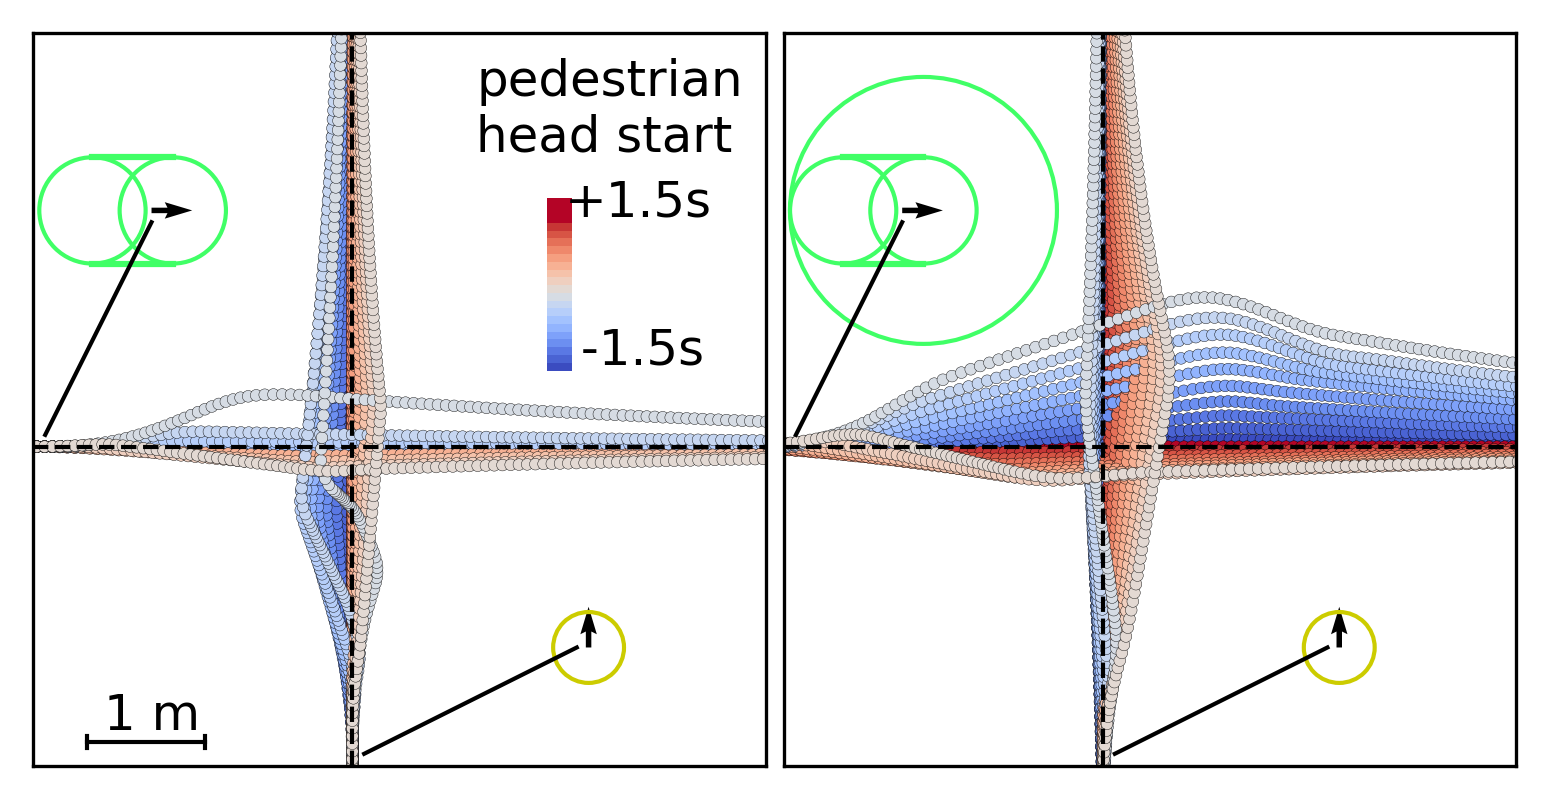
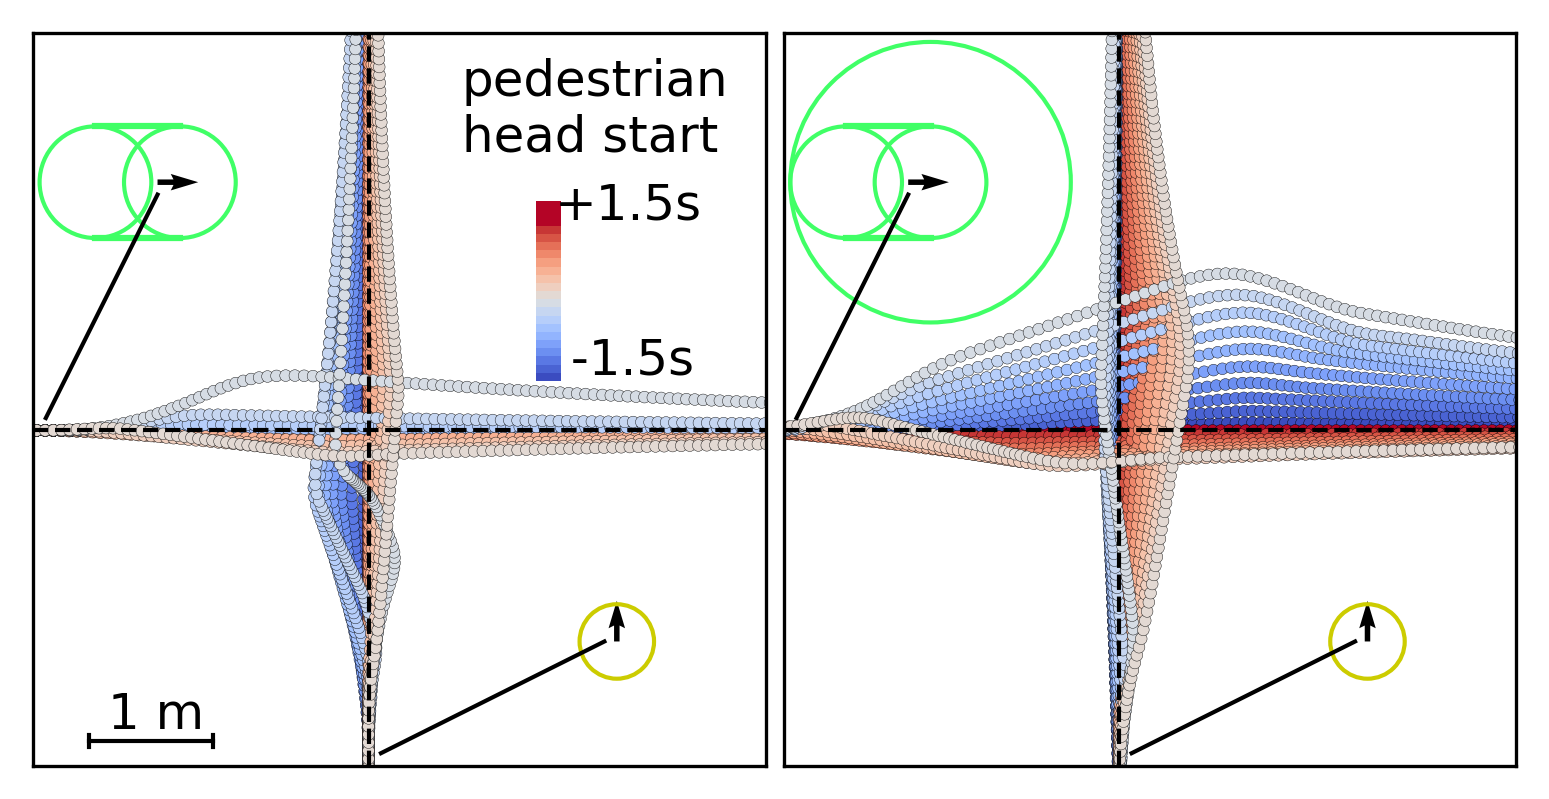
cross plot design

diff --git a/rds/script/cross_plot.py b/rds/script/cross_plot.py
@@ -74,10 +74,10 @@ for m in [0, 1]:
 	ax.scatter(traces_ordered[:,0], traces_ordered[:,1], c=traces_ordered[:,2]/float(traces_max_index),
 		cmap=the_cmap, marker='o', lw=0.1, s=8, edgecolor='k')
 	ax.set_aspect("equal")
-	ax.set_xlim([-2.7, 3.5])
-	ax.set_ylim([-2.7, 3.5])
-	ax.plot([-2.7, 3.5], [0.0, 0.0], 'k--', linewidth=1)
-	ax.plot([0.0, 0.0], [-2.7, 3.5], 'k--', linewidth=1)
+	ax.set_xlim([-2.7, 3.2])
+	ax.set_ylim([-2.7, 3.2])
+	ax.plot([-2.7, 3.2], [0.0, 0.0], 'k--', linewidth=1)
+	ax.plot([0.0, 0.0], [-2.7, 3.2], 'k--', linewidth=1)
 	
 	if m == 0:
 		shift_x = -5.0
@@ -86,8 +86,8 @@ for m in [0, 1]:
 		ax.plot([2.75+shift_x,3.75+shift_x], [2.5+shift_y, 2.5+shift_y],'k', linewidth=1)
 		ax.plot([2.75+shift_x,2.75+shift_x], [2.45+shift_y, 2.55+shift_y],'k', linewidth=1)
 		ax.plot([3.75+shift_x,3.75+shift_x], [2.45+shift_y, 2.55+shift_y],'k', linewidth=1)
-		y_colorscale = np.linspace(0.75, 2.0, 20)
-		x_colorscale = np.linspace(1.75, 1.75, 20)
+		y_colorscale = np.linspace(0.5, 1.75, 20)
+		x_colorscale = np.linspace(1.45, 1.45, 20)
 		c_array = np.linspace(0.0, 1.0, 20)
 		ax.scatter(x_colorscale, y_colorscale, c=c_array, cmap=the_cmap, marker='s', lw=0.0)
 		ax.text(x_colorscale[0]+0.05, y_colorscale[0]-0.05, " -1.5s")
